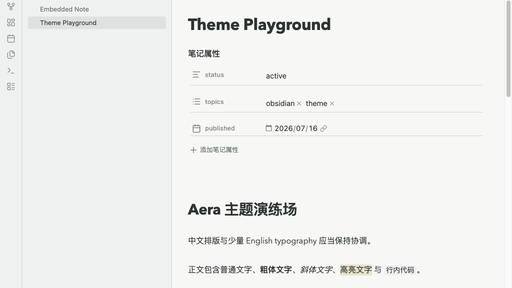
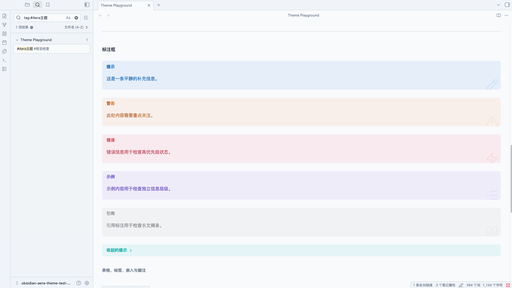
test: verify blue content components in Obsidian

diff --git a/src/editor/_code.scss b/src/editor/_code.scss
@@ -29,6 +29,10 @@ body {
   @include monokai-block;
 }
 
+:where(.markdown-rendered pre:not(.frontmatter)) code[class*="language-"] {
+  white-space: pre;
+}
+
 :where(.markdown-source-view.mod-cm6 .HyperMD-codeblock) {
   @include monokai-block;
 }

diff --git a/theme.css b/theme.css
@@ -265,6 +265,10 @@ body {
   color: #f8f8f2;
 }
 
+:where(.markdown-rendered pre:not(.frontmatter)) code[class*=language-] {
+  white-space: pre;
+}
+
 :where(.markdown-source-view.mod-cm6 .HyperMD-codeblock) {
   --code-background: #272822;
   --code-normal: #f8f8f2;